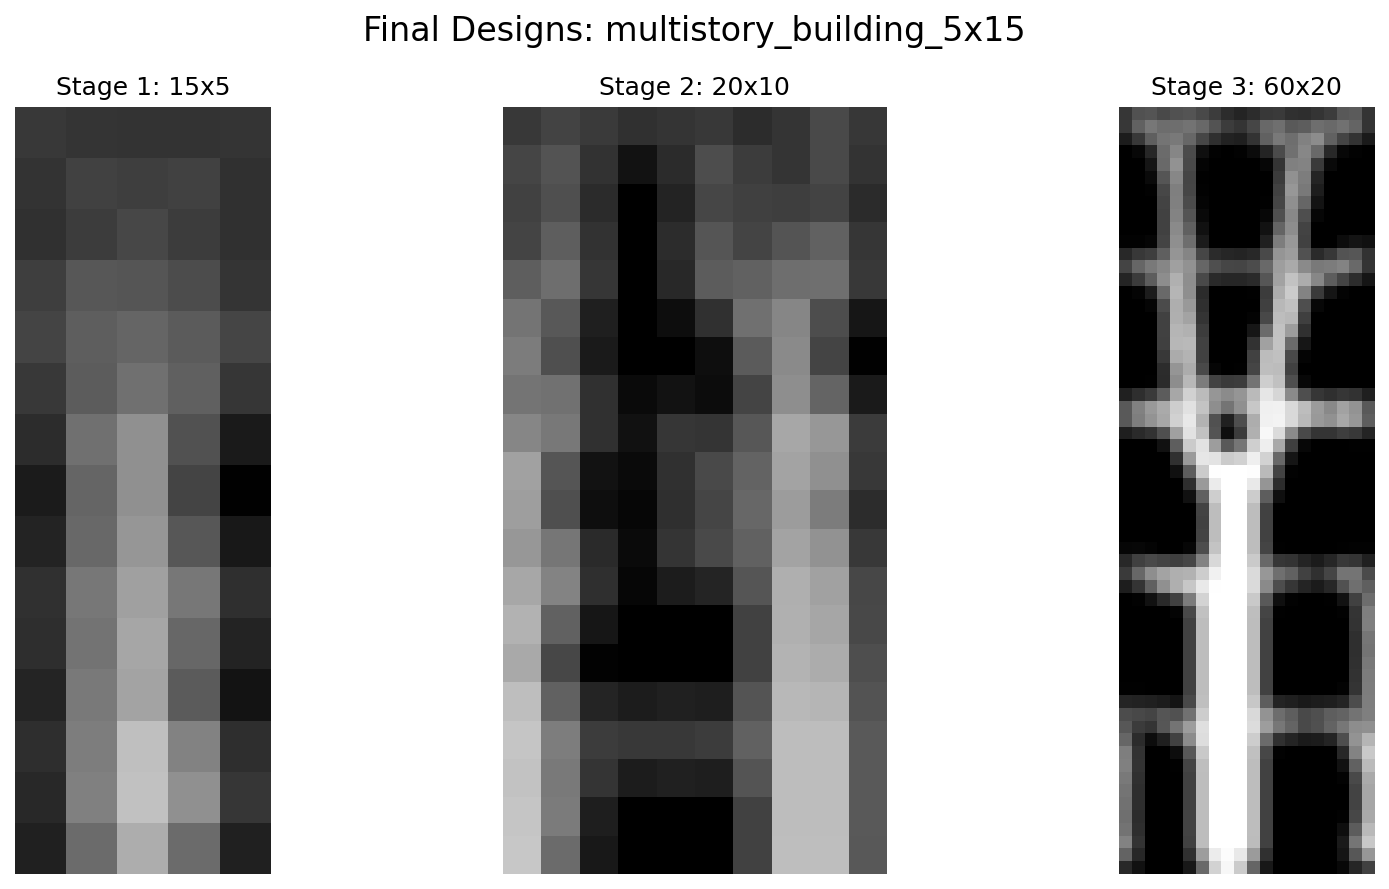
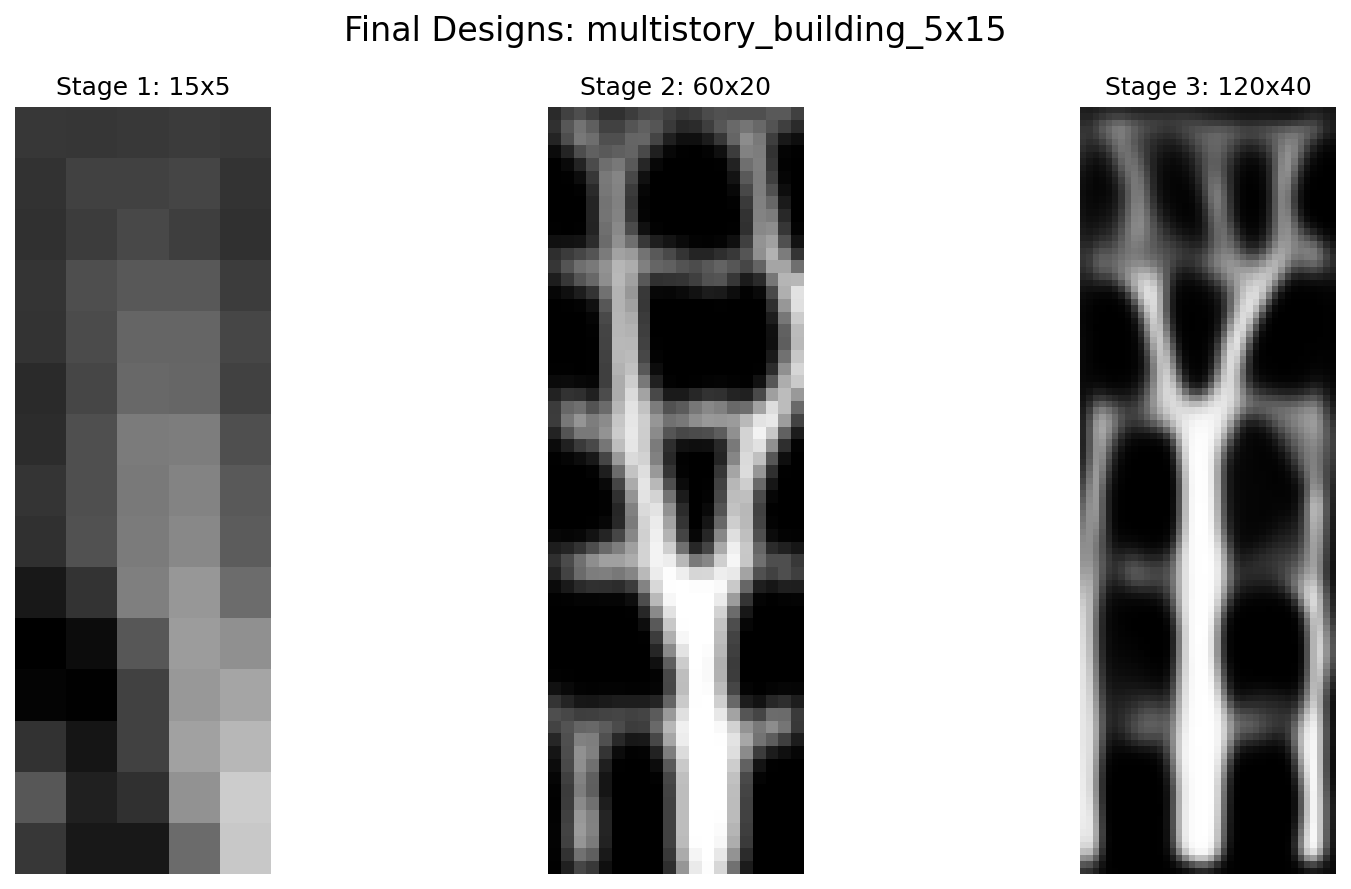
fixed the channel/resizing problem

diff --git a/neural_structural_optimization/problems.py b/neural_structural_optimization/problems.py
@@ -85,44 +85,40 @@ class Problem:
     new_density = density if density is not None else self.density
     new_name = name if name is not None else self.name
 
+    # Initialize new arrays
     new_normals = np.zeros((new_width + 1, new_height + 1, 2))
     new_forces = np.zeros((new_width + 1, new_height + 1, 2))
 
-     # Scale the boundary conditions and forces
+    # Area ratio for force scaling
+    area_ratio = (self.width * self.height) / (new_width * new_height)
+
     for i in range(new_width + 1):
-      for j in range(new_height + 1):
-        # Map new coordinates to original coordinates
-        orig_i = int(round(i * self.width / new_width))
-        orig_j = int(round(j * self.height / new_height))
-        
-        # Clamp to original bounds
-        orig_i = max(0, min(orig_i, self.width))
-        orig_j = max(0, min(orig_j, self.height))
-        
-        # Copy boundary conditions (normals)
-        new_normals[i, j, :] = self.normals[orig_i, orig_j, :]
-        
-        # Scale forces by area ratio to maintain total force
-        area_ratio = (self.width * self.height) / (new_width * new_height)
-        new_forces[i, j, :] = self.forces[orig_i, orig_j, :] * area_ratio
-    
-    # Handle the mask - scale it appropriately
+        for j in range(new_height + 1):
+            # Map new node (i, j) to original grid
+            orig_i = int(round(i * self.width / new_width))
+            orig_j = int(round(j * self.height / new_height))
+
+            # Clamp to bounds
+            orig_i = min(max(orig_i, 0), self.width)
+            orig_j = min(max(orig_j, 0), self.height)
+
+            new_normals[i, j, :] = self.normals[orig_i, orig_j, :]
+            new_forces[i, j, :] = self.forces[orig_i, orig_j, :] * area_ratio
+
+    # Resize mask
     if isinstance(self.mask, np.ndarray):
-      new_mask = np.ones((new_height, new_width))
-      for i in range(new_width):
-        for j in range(new_height):
-          orig_i = int(round(i * self.width / new_width))
-          orig_j = int(round(j * self.height / new_height))
-          orig_i = max(0, min(orig_i, self.width - 1))
-          orig_j = max(0, min(orig_j, self.height - 1))
-          new_mask[j, i] = self.mask[orig_j, orig_i]
+        new_mask = np.ones((new_height, new_width), dtype=self.mask.dtype)
+        for i in range(new_width):
+            for j in range(new_height):
+                orig_i = int(round(i * self.width / new_width))
+                orig_j = int(round(j * self.height / new_height))
+                orig_i = min(max(orig_i, 0), self.width - 1)
+                orig_j = min(max(orig_j, 0), self.height - 1)
+                new_mask[j, i] = self.mask[orig_j, orig_i]
     else:
-      new_mask = self.mask
-    
-    # Create the new problem
-    new_problem = Problem(new_normals, new_forces, new_density, new_mask, new_name)
-    
-    return new_problem    
+        new_mask = self.mask
+
+    return Problem(new_normals, new_forces, new_density, new_mask, new_name)    
 
 
 def mbb_beam(width=60, height=20, density=0.5):

diff --git a/neural_structural_optimization/train.py b/neural_structural_optimization/train.py
@@ -191,6 +191,8 @@ def adaptive_train_lbfgs(
   **kwargs
 ):
   z_init = None # initial latent vector
+  old_shape = None
+  old_dense = None
   ds_history = []
   
   for i, (nelx, nely) in enumerate(resolutions):
@@ -200,30 +202,48 @@ def adaptive_train_lbfgs(
     args = topo_api.specified_task(clean_problem)
 
     model = model_class(args=args)
-    # Print density of latent vector z
-    z_density = tf.reduce_mean(model.z)
-    print(f"Latent vector z density: {z_density:.4f}")
 
     if z_init is not None: # project the existing latent vector
-      old_x, old_y = resolutions[i-1]
-      new_x, new_y = resolutions[i]
+      # old_x, old_y = resolutions[i-1]
+      old_x, old_y = old_shape
+      new_x, new_y = model.base_shape
 
-      old_c = z_init.shape[1] // (old_x * old_y)
-      new_c = model.z.shape[1] // (new_x * new_y)
+      print("z init shape", z_init.shape)
 
-      if (old_x, old_y) != (new_x, new_y):
-        z_spatial = tf.reshape(z_init, [1, old_y, old_x, old_c])
-        z_resized = tf.image.resize(z_spatial, size=(new_y, new_x), method='bilinear')
-        if old_c != new_c:
-          # Use a 1x1 conv to project channels if needed
-          conv = tf.keras.layers.Conv2D(new_c, kernel_size=1, use_bias=False)
-          z_resized = conv(z_resized)
-        z_init = tf.reshape(z_resized, [1, new_y * new_x * new_c])
-      model.z.assign(z_init)
+      # old_c = z_init.shape[1] // (old_x * old_y)
+      # new_c = model.z.shape[1] // (new_x * new_y)
+
+      old_c = old_dense
+      new_c = model.dense_channels
+
+      print("old base shape: ", old_shape)
+      print("old dense channels: ", old_dense)
+      print("old x:", old_x, " old y:", old_y, " old:", old_c)
+      print("new x:", resolutions[i][0], " new y:", resolutions[i][1], " new_c:", new_c)
+      print("new base shape: ", model.base_shape)
+      print("new dense channels:", model.dense_channels)
+
+      z_spatial = tf.reshape(z_init, [1, old_y, old_x, old_c])
+      z_resized = tf.image.resize(z_spatial, size=(new_y, new_x), method='bilinear')
+
+      if old_c != new_c:
+        # Use a 1x1 conv to project channels if needed
+        conv_projection_layer = tf.keras.layers.Conv2D(new_c, kernel_size=1, use_bias=False)
+        conv_projection_layer.build(z_resized.shape)
+        W = tf.eye(new_c, num_columns=old_c)  # shape (new_c, old_c)
+        W = tf.reshape(W, [1, 1, old_c, new_c])  # for Conv2D
+        conv_projection_layer.set_weights([W.numpy()])
+        z_resized = conv_projection_layer(z_resized)
+      
+      z_final = tf.reshape(z_resized, [1, new_y * new_x * new_c])
+      model.z.assign(z_final)
     
-    ds = train_lbfgs(model, max_iter_per_stage)
+    ds = train_lbfgs(model, max_iter_per_stage[i])
     ds_history.append(ds)
+    
     z_init = model.z.numpy()
+    old_shape = model.base_shape
+    old_dense = model.dense_channels
   
   return ds_history
 

diff --git a/neural_structural_optimization/models.py b/neural_structural_optimization/models.py
@@ -168,9 +168,12 @@ class CNNModelDynamic(Model):
       self,
       seed=0,
       args=None,
+      base_shape=None,
       max_resizes=4,
       min_base_size=5,
       conv_filter_template=(512, 256, 128, 64, 32, 16, 8, 1),
+      conv_filters=[],
+      dense_channels=None,
       offset_scale=10,
       kernel_size=(5, 5),
       latent_scale=1.0,
@@ -189,31 +192,24 @@ class CNNModelDynamic(Model):
     )
 
     conv_filters = conv_filter_template[-len(resizes):]
-    dense_channels = conv_filters[0] // 2
+    scale_factor = max_resizes / len(resizes)  # will be larger when fewer resizes
+    dense_channels = int(conv_filters[0] // 2 * scale_factor)
+    # dense_channels = conv_filters[0] // 2
 
-    # Now store these as instance variables or pass into build()
-    self.resizes = resizes
+    self.resizes = resizes # (1, 2, 2, 2, 1)
     self.base_shape = base_shape
     self.conv_filters = conv_filters
     self.dense_channels = dense_channels
-    self.activation = activation
-    self.kernel_size = kernel_size
-    self.latent_scale = latent_scale
-    self.dense_init_scale = dense_init_scale
-    self.normalization = normalization
-    self.offset_scale = offset_scale
 
     activation = layers.Activation(activation)
 
     h, w = self.base_shape
-    dense_channels = conv_filters[0] // 2
     latent_size = h * w * dense_channels
 
     net = inputs = layers.Input((latent_size,), batch_size=1)
-    filters = h * w * dense_channels
     dense_initializer = tf.initializers.orthogonal(
-        dense_init_scale * np.sqrt(max(filters / latent_size, 1)))
-    net = layers.Dense(filters, kernel_initializer=dense_initializer)(net)
+        dense_init_scale * np.sqrt(max(dense_channels / latent_size, 1)))
+    net = layers.Dense(latent_size, kernel_initializer=dense_initializer)(net)
     net = layers.Reshape([h, w, dense_channels])(net)
 
     for resize, filters in zip(resizes, conv_filters):
@@ -226,8 +222,6 @@ class CNNModelDynamic(Model):
         net = AddOffset(offset_scale)(net)
 
     outputs = tf.squeeze(net, axis=[-1])
-    # epsilon = 1e-3
-    # outputs = tf.clip_by_value(tf.squeeze(net, axis=[-1]), epsilon, 1.0)
 
     self.core_model = tf.keras.Model(inputs=inputs, outputs=outputs)
 

diff --git a/script/run2.py b/script/run2.py
@@ -77,7 +77,19 @@ def main():
         # model = models.CNNModelDynamic(args=args)
         # ds = train.train_lbfgs(model, max_iterations)
 
-        ds_history = train.adaptive_train_lbfgs(problem, [(5,15),(20,60),(40,120)], max_iterations)
+        resolutions = [
+            (30, 10),
+            (60, 20),
+            (120, 40),
+            (240, 80),
+            (480, 160),
+            (960, 320),
+            (1200, 400),
+            ]
+        max_iter = [200, 100, 50, 30, 20, 10, 5]  # fewer iterations at each upsample stage
+
+        # ds_history = train.adaptive_train_lbfgs(problem, [(5,15),(20,60),(30,120)], max_iterations)
+        ds_history = train.adaptive_train_lbfgs(problem, resolutions, max_iter)
         if not isinstance(ds_history, list):
             ds_history = [ds_history]
             
